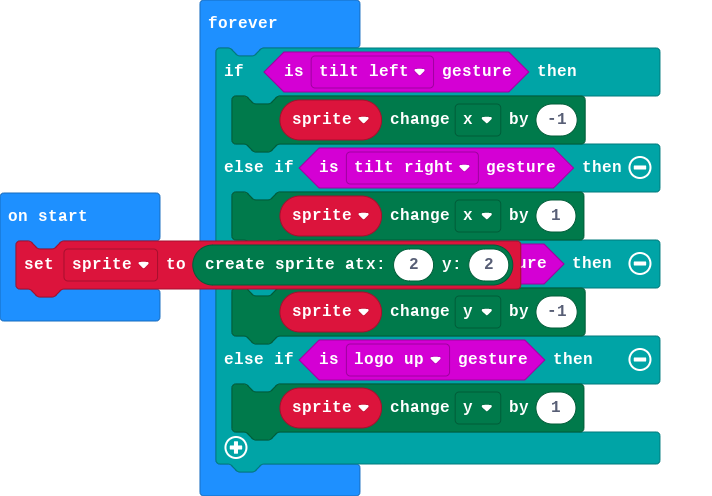
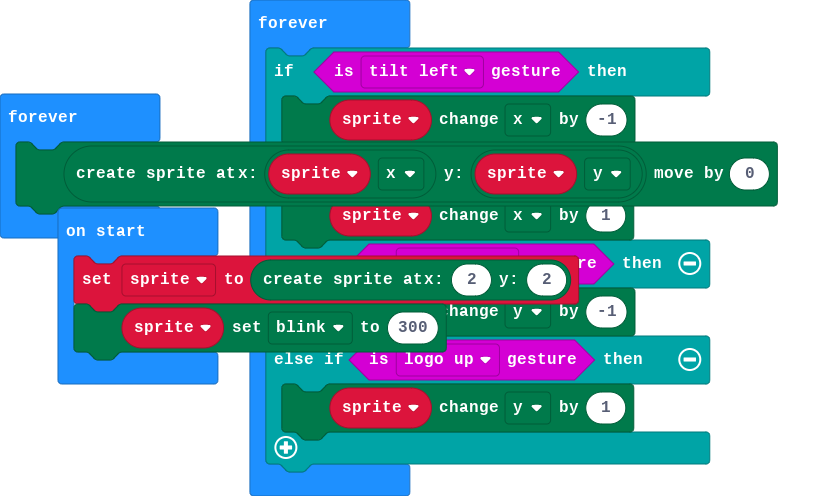
Update main.blocks, main.ts

diff --git a/main.ts b/main.ts
@@ -1,4 +1,5 @@
 let sprite = game.createSprite(2, 2)
+sprite.set(LedSpriteProperty.Blink, 300)
 basic.forever(function () {
     if (input.isGesture(Gesture.TiltLeft)) {
         sprite.change(LedSpriteProperty.X, -1)
@@ -9,4 +10,7 @@ basic.forever(function () {
     } else if (input.isGesture(Gesture.LogoUp)) {
         sprite.change(LedSpriteProperty.Y, 1)
     }
+})
+basic.forever(function () {
+    game.createSprite(sprite.get(LedSpriteProperty.X), sprite.get(LedSpriteProperty.Y)).move(0)
 })
